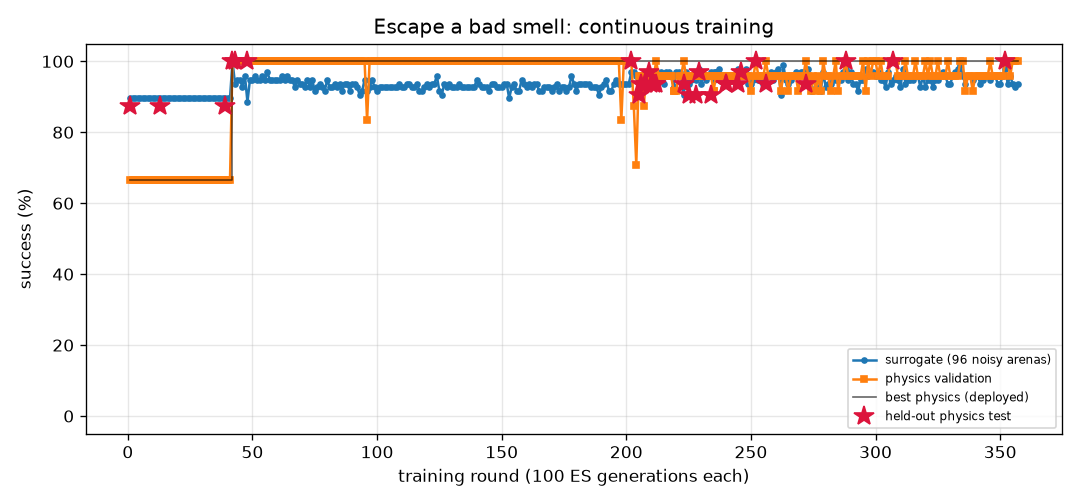
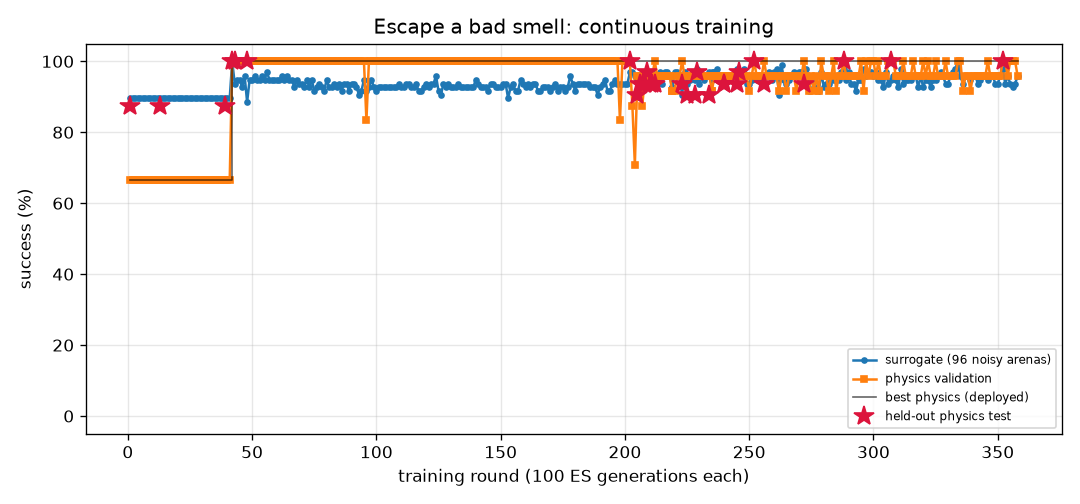
FlyLab: continuous training progress
- walk_forward: optimal, physics val 100% of 24, round 72
- turn: optimal, physics val 100% of 24, round 265
- goto: optimal, physics val 100% of 24, round 67
- odor_seek: optimal, physics val 100% of 24, round 81
- odor_avoid: optimal, physics val 100% of 24, round 358
- light_seek: optimal, physics val 100% of 24, round 249
- light_avoid: optimal, physics val 100% of 24, round 143

diff --git a/projects/09_flylab/training/turn/REPORT.md b/projects/09_flylab/training/turn/REPORT.md
@@ -1,14 +1,14 @@
 # Turn in place (`turn`) — training report
 
-*Auto-generated by `train_brains.py`, last updated 2026-10-09T20:55:42.*
+*Auto-generated by `train_brains.py`, last updated 2026-10-09T21:07:52.*
 
 ![curve](curve.png)
 
 | | |
 |---|---|
-| rounds | 263 |
-| ES generations | 26300 |
-| physics runs | 6558 |
+| rounds | 265 |
+| ES generations | 26500 |
+| physics runs | 6606 |
 | status | **optimal** |
 | best brain | round 80: physics validation **100%** on 24 arenas, surrogate 100% |
 | held-out physics test | **97%** on 32 unseen arenas (95% CI 84%-99%) (errors: [1.6, 3.3, 6.3, 3.7, 1.1, 0.4, 2.4, 2.9, 0.1, 2.6, 0.5, 2.7, 1.5, 3.1, 4.5, 0.2, 0.5, 1.1, 2.0, 4.4, 2.8, 3.2, 0.3, 2.2, 0.5, 3.0, 0.3, 5.4, 0.4, 1.0, 4.7, 10.7]) |
@@ -17,8 +17,6 @@ Physics error per arena: deg from target heading (< 20 = success).
 
 | round | level | gens | sigma | surrogate | physics val | val errors | test | note |
 |---:|---:|---:|---:|---:|---:|---|---:|---|
-| 224 | 3 | 22400 | 0.025 | 100% | 83% | [3.1, 3.1, 4.6, 0.6, 2.0, 1.3, 7.1, 6.0, 5.6, 1.2, 4.0, 0.7, 1.8, 1.6, 4.2, 2.8, 0.4, 0.8, 2.9, 3.8, 4.5, 1.3, 6.2, 3.5] |  | restart from best |
-| 225 | 3 | 22500 | 0.024 | 98% | 67% | [2.9, 5.0, 6.6, 0.5, 1.5, 2.9, 7.5, 8.3, 7.3, 1.3, 7.3, 0.8, 2.6, 1.7, 6.1, 2.0, 1.6, 3.2, 2.6, 2.1, 3.9, 1.2, 7.2, 7.8] |  |  |
 | 226 | 3 | 22600 | 0.025 | 100% | 79% | [4.0, 0.9, 1.2, 0.3, 1.4, 0.2, 7.4, 6.8, 7.8, 1.5, 5.2, 1.2, 1.1, 1.0, 4.7, 3.3, 1.7, 2.2, 3.1, 4.2, 3.7, 1.2, 6.8, 3.5] |  |  |
 | 227 | 3 | 22700 | 0.024 | 100% | 79% | [5.0, 1.4, 2.7, 0.9, 1.5, 0.9, 5.0, 8.6, 7.6, 0.4, 5.0, 0.4, 0.3, 1.0, 5.4, 2.5, 0.7, 2.5, 1.4, 2.6, 5.7, 0.9, 6.6, 8.4] |  |  |
 | 228 | 3 | 22800 | 0.024 | 100% | 83% | [0.5, 1.8, 5.8, 2.0, 2.1, 1.9, 7.4, 8.8, 8.0, 1.2, 2.8, 1.5, 0.4, 0.2, 2.5, 4.1, 1.6, 3.6, 2.8, 2.1, 4.3, 0.1, 7.1, 6.7] |  | restart from best |
@@ -57,3 +55,5 @@ Physics error per arena: deg from target heading (< 20 = success).
 | 261 | 3 | 26100 | 0.024 | 99% | 75% | [7.0, 10.6, 3.0, 4.0, 5.2, 5.0, 2.3, 3.9, 2.6, 1.9, 3.1, 2.8, 1.8, 3.2, 1.6, 2.2, 2.9, 1.8, 3.4, 3.4, 7.4, 1.8, 2.7, 1.3] |  |  |
 | 262 | 3 | 26200 | 0.025 | 99% | 67% | [6.7, 7.6, 4.5, 1.4, 2.1, 4.6, 4.6, 0.6, 4.4, 0.0, 2.9, 1.8, 0.8, 5.1, 3.8, 1.3, 2.3, 0.2, 1.4, 1.9, 6.0, 1.5, 4.4, 2.3] |  |  |
 | 263 | 3 | 26300 | 0.025 | 99% | 75% | [7.1, 9.3, 0.7, 3.4, 5.9, 2.6, 2.7, 0.2, 5.3, 2.1, 3.1, 2.3, 2.2, 0.7, 4.0, 0.5, 2.5, 2.1, 0.0, 0.3, 8.0, 0.8, 2.7, 2.3] |  |  |
+| 264 | 3 | 26400 | 0.025 | 100% | 71% | [6.7, 10.8, 4.0, 3.6, 3.6, 0.6, 2.0, 4.9, 1.6, 3.0, 1.6, 2.9, 2.1, 4.3, 1.6, 2.7, 2.6, 0.1, 2.7, 2.9, 4.7, 2.4, 2.9, 2.9] |  | restart from best |
+| 265 | 3 | 26500 | 0.024 | 100% | 88% | [4.7, 5.3, 0.8, 0.5, 10.3, 0.4, 6.1, 2.2, 5.3, 1.3, 4.1, 0.9, 3.3, 1.6, 4.0, 1.7, 0.9, 0.5, 1.0, 0.0, 6.9, 0.5, 4.8, 5.6] |  |  |

diff --git a/projects/09_flylab/training/odor_avoid/REPORT.md b/projects/09_flylab/training/odor_avoid/REPORT.md
@@ -1,14 +1,14 @@
 # Escape a bad smell (`odor_avoid`) — training report
 
-*Auto-generated by `train_brains.py`, last updated 2026-10-09T20:34:09.*
+*Auto-generated by `train_brains.py`, last updated 2026-10-09T21:09:25.*
 
 ![curve](curve.png)
 
 | | |
 |---|---|
-| rounds | 357 |
-| ES generations | 35700 |
-| physics runs | 5810 |
+| rounds | 358 |
+| ES generations | 35800 |
+| physics runs | 5834 |
 | status | **optimal** |
 | best brain | round 352: physics validation **100%** on 24 arenas, surrogate 98% |
 | held-out physics test | **100%** on 32 unseen arenas (95% CI 89%-100%) (errors: [61.0, 57.0, 61.4, 59.6, 56.8, 61.2, 61.2, 60.8, 57.0, 60.5, 60.6, 56.7, 59.9, 61.1, 61.5, 59.8, 60.1, 54.8, 60.0, 54.0, 61.3, 60.1, 57.6, 61.3, 59.5, 56.5, 55.1, 44.6, 56.4, 58.2, 60.2, 19.1]) |
@@ -17,7 +17,6 @@ Physics error per arena: mm gained away from source (> 6 without first approachi
 
 | round | level | gens | sigma | surrogate | physics val | val errors | test | note |
 |---:|---:|---:|---:|---:|---:|---|---:|---|
-| 318 | 3 | 31800 | 0.026 | 93% | 96% | [60.7, 58.2, 56.7, 58.1, 59.9, 60.0, 60.8, 38.7, 60.8, 52.1, 30.3, 60.1, 51.6, 54.4, 34.6, 60.6, 60.4, 59.3, 54.2, 59.0, 60.0, 61.1, 58.8, 60.4] |  |  |
 | 319 | 3 | 31900 | 0.028 | 96% | 96% | [61.8, 59.4, 58.3, 58.7, 61.5, 62.0, 60.4, 58.6, 61.7, 60.6, 60.7, 60.0, 53.8, 56.6, 38.6, 61.8, 60.9, 61.7, 54.2, 56.1, 60.6, 61.3, 59.2, 61.7] |  | restart from best |
 | 320 | 3 | 32000 | 0.025 | 93% | 100% | [60.7, 59.0, 55.6, 56.8, 61.1, 57.6, 59.6, 8.3, 60.0, 58.6, 60.7, 61.0, 54.3, 55.4, 42.5, 60.4, 60.8, 59.6, 54.5, 54.4, 61.0, 35.5, 57.6, 30.8] |  |  |
 | 321 | 3 | 32100 | 0.028 | 95% | 96% | [60.5, 57.6, 54.1, 57.6, 59.6, 59.8, 58.8, 24.9, 60.1, 36.7, 57.6, 58.6, 50.2, 53.5, 34.6, 55.5, 58.8, 57.2, 48.2, 55.5, 58.2, 49.1, 57.9, 50.2] |  |  |
@@ -57,3 +56,4 @@ Physics error per arena: mm gained away from source (> 6 without first approachi
 | 355 | 3 | 35500 | 0.026 | 94% | 100% | [62.0, 60.8, 58.1, 61.1, 61.0, 58.0, 60.8, 47.0, 60.6, 57.4, 60.7, 61.0, 54.4, 56.0, 51.0, 60.9, 60.8, 61.2, 54.4, 56.3, 60.9, 61.0, 60.8, 52.5] |  |  |
 | 356 | 3 | 35600 | 0.028 | 93% | 100% | [62.2, 60.6, 57.2, 60.6, 61.1, 59.8, 61.3, 28.9, 60.7, 37.9, 57.0, 61.6, 51.7, 55.9, 35.3, 61.1, 61.5, 48.2, 54.5, 56.3, 61.1, 55.7, 60.7, 58.5] |  | restart from best |
 | 357 | 3 | 35700 | 0.025 | 94% | 100% | [60.8, 60.5, 55.9, 59.4, 62.1, 61.8, 61.0, 61.5, 61.4, 50.8, 61.3, 61.4, 54.7, 56.4, 50.1, 61.3, 61.8, 61.1, 54.5, 59.5, 61.8, 62.3, 59.4, 61.7] |  |  |
+| 358 | 3 | 35800 | 0.028 | 96% | 96% | [60.6, 60.1, 55.6, 59.1, 61.0, 61.0, 60.5, 19.9, 61.6, 23.1, 56.4, 61.1, 51.0, 55.6, 26.9, 61.1, 61.0, 53.9, 51.1, 59.6, 61.6, 48.2, 56.5, 33.8] |  |  |

diff --git a/projects/09_flylab/training/TRAINING.md b/projects/09_flylab/training/TRAINING.md
@@ -1,15 +1,15 @@
 # FlyLab brains — continuous training log
 
-*Auto-generated by `train_brains.py`, last updated 2026-10-09T21:01:01.*
+*Auto-generated by `train_brains.py`, last updated 2026-10-09T21:09:25.*
 
 Every skill has its own brain and its own training process: surrogate ES rounds, physics validation in MuJoCo, keep-the-best selection, and a held-out physics test that is never used for selection. See each skill's report for its full round-by-round history. Mastery is progressive: passing a level (100% physics validation, >=95% surrogate) doubles the validation and test arena sets; a brain is **optimal** once it holds up at level 3 (>=95% of 24 validation arenas) AND scores >=90% on the 32 held-out test arenas. Test columns show 95% Wilson confidence intervals.
 
 | skill | rounds | ES generations | physics runs | surrogate | physics val | **physics test** | status |
 |---|---:|---:|---:|---:|---:|---:|---|
 | [Walk forward](walk_forward/REPORT.md) | 72 | 7200 | 1678 | 100% | 100% of 24 | 100% of 32 (CI 89-100%) | **optimal** |
-| [Turn in place](turn/REPORT.md) | 263 | 26300 | 6558 | 100% | 100% of 24 | 97% of 32 (CI 84-99%) | **optimal** |
+| [Turn in place](turn/REPORT.md) | 265 | 26500 | 6606 | 100% | 100% of 24 | 97% of 32 (CI 84-99%) | **optimal** |
 | [Go to a location](goto/REPORT.md) | 67 | 6700 | 1398 | 100% | 100% of 24 | 100% of 32 (CI 89-100%) | **optimal** |
 | [Find food by smell](odor_seek/REPORT.md) | 81 | 8100 | 1246 | 100% | 100% of 24 | 100% of 32 (CI 89-100%) | **optimal** |
-| [Escape a bad smell](odor_avoid/REPORT.md) | 357 | 35700 | 5810 | 98% | 100% of 24 | 100% of 32 (CI 89-100%) | **optimal** |
+| [Escape a bad smell](odor_avoid/REPORT.md) | 358 | 35800 | 5834 | 98% | 100% of 24 | 100% of 32 (CI 89-100%) | **optimal** |
 | [Walk toward light](light_seek/REPORT.md) | 249 | 24900 | 2728 | 100% | 100% of 24 | 100% of 32 (CI 89-100%) | **optimal** |
 | [Hide from light](light_avoid/REPORT.md) | 143 | 14300 | 3672 | 100% | 100% of 24 | 100% of 32 (CI 89-100%) | **optimal** |
